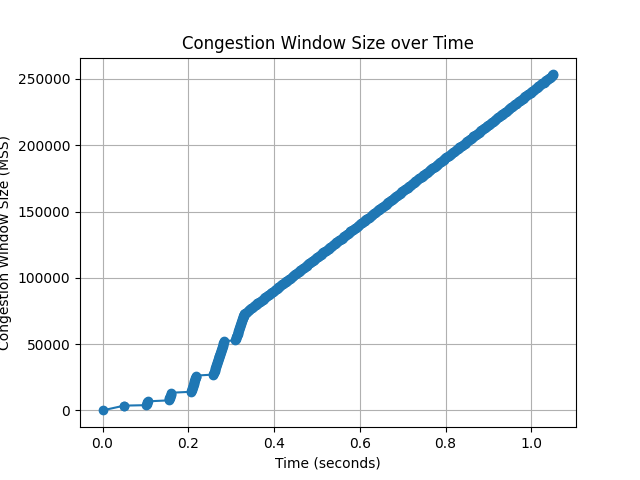
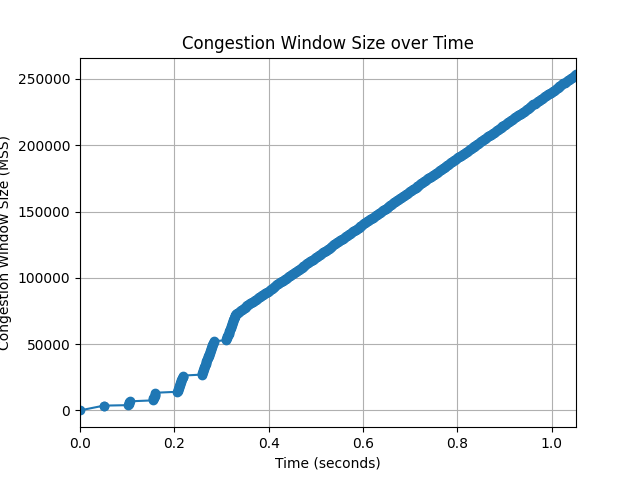
revise the scale of figure in experiment 04

diff --git a/experiment/04_result/data_process.py b/experiment/04_result/data_process.py
@@ -20,6 +20,8 @@ def plot_figure(times, cwnd_sizes, output_file):
     plt.ylabel('Congestion Window Size (MSS)')
     plt.title('Congestion Window Size over Time')
     plt.grid(True)
+    # Adjust the x-axis limits
+    plt.xlim(min(times), max(times))
     plt.savefig(output_file)  # Save the figure to a PNG file
     plt.close()
 
